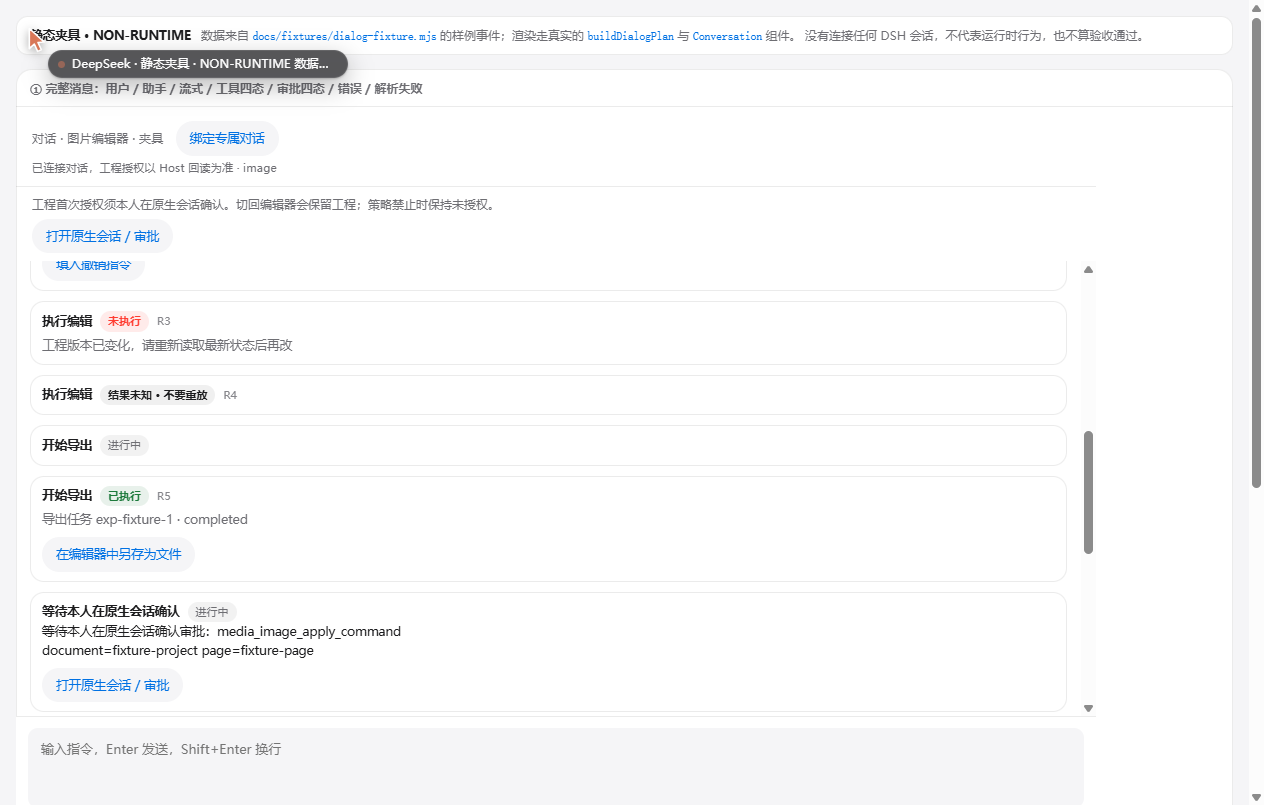
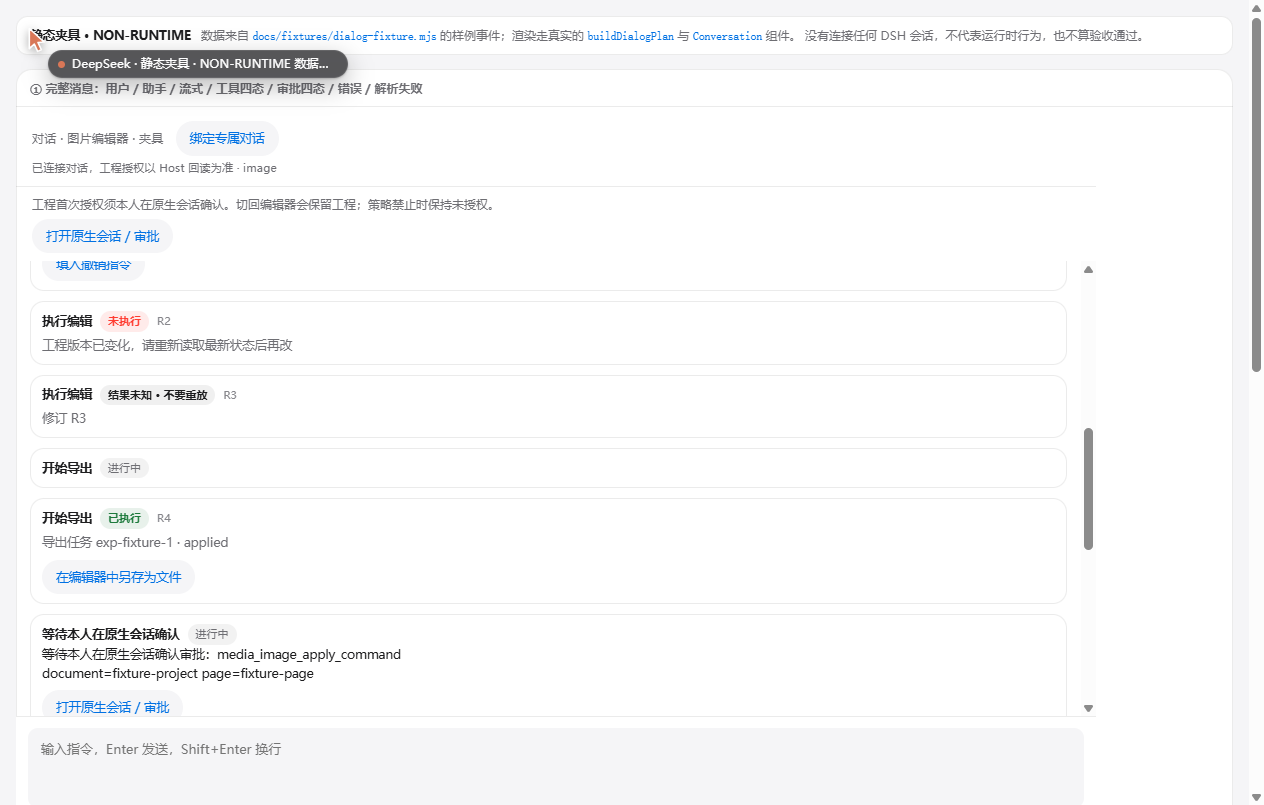
chat: 修掉"夹具能过、真机全 unknown"——按真实事件外壳抽取工具回执字段
真机 tool/result 的外壳比旧契约深一层（{call:{toolName}} + {result:{ok,value}}，或回执正文放在
content[{type:'text',text:'{...}'}] 里），旧实现只认 data.result/data.value 这一层，所以：
状态全部回落 unknown、名字取不到、commandId/exportId 也取不到 → 撤销/导出按钮不出现。

- 新增 factSources/toolFacts：把事件里所有"可能是回执"的层收进来（result/value/output/data/call/
  payload/response/content/parts/blocks/items/messages，数组展开、字符串 JSON 解析、text 继续下钻），
  再按字段取第一个可用值；不写死某条路径，少一层/多一层/纯文本 JSON 都能解析
- toolCard 改用 toolFacts；tool/result 行沿用上一条 tool/call 的工具名，不再整屏「工具调用」
- undoEvidence/resultIssue/exportEvidence 改用同一套抽取；REVISION_CONFLICT 走 ERROR_TEXT 显示"未执行"
- 夹具的事件改成真实外壳（call/result 包一层），并在夹具里保留一条 unknown 样例用于四态覆盖
- 新增回归：真实外壳的事件流必须得到 pending/applied/rejected/applied/applied/applied，
  名字解析为「执行编辑」、REVISION_CONFLICT 文案为中文、撤销与导出按钮各出现、无凭据的 applied 不给撤销
- 测试 105/105

Changed region(s): [[0.0309, 0.4969, 0.3085, 0.9006], [0.9873, 0.4658, 1.0, 0.6211]]

diff --git a/plugin/dsh-media-image/lib/client.js b/plugin/dsh-media-image/lib/client.js
@@ -185,49 +185,96 @@ window.__ModuleLoader__.load({
       })
     }
     function bindingKey(b) { return [b.editorKind, b.projectId, b.pageId, b.editorInstanceId].join(':') }
-    function undoEvidence(value, depth) {
-      if (!value || typeof value !== 'object' || depth > 6) return null
-      if (typeof value.commandId === 'string' && Number.isSafeInteger(value.revision) && typeof value.afterDigest === 'string') return { commandId: value.commandId, appliedRevision: value.revision, afterDigest: value.afterDigest }
-      for (var key of ['result', 'value', 'originalResult', 'output', 'data']) {
-        var found = undoEvidence(value[key], depth + 1)
-        if (found) return found
+    // 真实会话里 tool/result 的外壳比契约示例深一层（例如 {result:{ok,value}}、或回执正文
+    // 放在 content[{type:'text',text:'{...}'}] 里）。所以不写死某条路径，而是把所有"可能是回执"
+    // 的层收集起来再按字段取第一个可用值：少一层/多一层/纯文本 JSON 都能解析。
+    var FACT_KEYS = ['result', 'value', 'output', 'data', 'call', 'payload', 'response', 'content', 'parts', 'blocks', 'items', 'messages'];
+    function factSources(root) {
+      var out = [], queue = [root], seen = new Set();
+      while (queue.length && out.length < 64) {
+        var value = queue.shift();
+        if (value === undefined || value === null) continue;
+        if (typeof value === 'string') {
+          var trimmed = value.trim();
+          if (trimmed.charAt(0) !== '{') continue;
+          try { value = JSON.parse(trimmed) } catch (_) { continue }
+        }
+        if (Array.isArray(value)) { value.forEach(function (item) { queue.push(item) }); continue }
+        if (typeof value !== 'object' || seen.has(value)) continue;
+        seen.add(value); out.push(value);
+        for (var index = 0; index < FACT_KEYS.length; index += 1) {
+          var next = value[FACT_KEYS[index]];
+          if (next !== undefined && next !== null) queue.push(next);
+        }
+        if (typeof value.text === 'string') queue.push(value.text);
       }
-      return null
+      return out;
     }
-    function resultIssue(value, depth) {
-      if (!value || typeof value !== 'object' || depth > 6) return null
-      if (value.code === 'HISTORY_CONFLICT') return '已有后续人工或 AI 修改，不能单独撤销这一步。请回读当前历史；不要重试旧命令。'
-      for (var key of ['error', 'result', 'value', 'originalResult', 'output', 'data']) {
-        var found = resultIssue(value[key], depth + 1)
-        if (found) return found
+    function pickAny(sources, keys) {
+      for (var index = 0; index < sources.length; index += 1) {
+        for (var key = 0; key < keys.length; key += 1) {
+          var value = sources[index][keys[key]];
+          if (value !== undefined && value !== null && value !== '') return value;
+        }
       }
-      return null
+      return undefined;
+    }
+    var stringOf = value => typeof value === 'string' && value ? value : undefined;
+    /** 一次把回执里所有用得到的字段抽出来：状态、修订、错误码、撤销凭据、导出引用。 */
+    function toolFacts(data) {
+      var sources = factSources(data);
+      var error = pickAny(sources, ['error']);
+      var errorCode;
+      if (typeof error === 'string') errorCode = error;
+      else if (error && typeof error === 'object') errorCode = stringOf(error.code);
+      if (!errorCode) {
+        var bareCode = stringOf(pickAny(sources, ['code']));
+        if (bareCode && /^[A-Z][A-Z0-9_]{3,}$/.test(bareCode)) errorCode = bareCode;
+      }
+      if (!errorCode && pickAny(sources, ['ok']) === false) errorCode = 'TOOL_ERROR';
+      var revision = pickAny(sources, ['revision', 'appliedRevision']);
+      var format = stringOf(pickAny(sources, ['format', 'mimeType']));
+      return {
+        toolName: stringOf(pickAny(sources, ['toolName'])) || '',
+        status: stringOf(pickAny(sources, ['status'])) || '',
+        revision: Number.isSafeInteger(revision) ? revision : undefined,
+        errorCode: errorCode,
+        commandId: stringOf(pickAny(sources, ['commandId', 'targetCommandId'])),
+        afterDigest: stringOf(pickAny(sources, ['afterDigest'])),
+        exportId: stringOf(pickAny(sources, ['exportId'])),
+        artifactRef: stringOf(pickAny(sources, ['artifactRef'])),
+        format: format,
+      };
+    }
+    function undoEvidence(value) {
+      var facts = toolFacts(value);
+      if (!facts.commandId || !Number.isSafeInteger(facts.revision) || !facts.afterDigest) return null;
+      return { commandId: facts.commandId, appliedRevision: facts.revision, afterDigest: facts.afterDigest };
     }
     /**
      * 撤销指令：只把带凭据的指令填进输入框，由会话里的 Agent 执行。
      * 凭据缺一项就不生成文案——宁可不给按钮，也不给一个跑不通的指令。
      */
     function undoPrompt(evidence) {
-      var undo = sanitizeUndo(evidence)
-      if (!undo) return ''
+      var undo = sanitizeUndo(evidence);
+      if (!undo) return '';
       return '撤销上一步修改：使用 history.undo，params={"targetCommandId":"' + undo.commandId + '","afterDigest":"' + undo.afterDigest + '"}'
         + '（commandId=' + undo.commandId + '，appliedRevision=' + undo.appliedRevision + '）。'
-        + '先 read_state 确认这一步仍是历史栈顶；若返回 HISTORY_CONFLICT 说明已有后续修改，立即停止并说明，不要重试或绕过。'
+        + '先 read_state 确认这一步仍是历史栈顶；若返回 HISTORY_CONFLICT 说明已有后续修改，立即停止并说明，不要重试或绕过。';
+    }
+    function resultIssue(value) {
+      var facts = toolFacts(value);
+      if (facts.errorCode === 'HISTORY_CONFLICT') return '已有后续人工或 AI 修改，不能单独撤销这一步。请回读当前历史；不要重试旧命令。';
+      return null;
     }
     /**
      * 从工具回执里找导出的artifactRef：只用于在界面上提供真实「另存」入口。
      * Host 侧通常是合成引用（artifact://…），因此按钮会请编辑器自己再导一次，而不是直接打开该引用。
      */
-    function exportEvidence(value, depth) {
-      if (!value || typeof value !== 'object' || depth > 6) return null
-      if (typeof value.artifactRef === 'string' || typeof value.exportId === 'string') {
-        return { artifactRef: typeof value.artifactRef === 'string' ? value.artifactRef : null, exportId: typeof value.exportId === 'string' ? value.exportId : null, format: /jpe?g/i.test(String(value.mimeType || value.format || '')) ? 'jpeg' : 'png' }
-      }
-      for (var key of ['result', 'value', 'originalResult', 'output', 'data']) {
-        var found = exportEvidence(value[key], depth + 1)
-        if (found) return found
-      }
-      return null
+    function exportEvidence(value) {
+      var facts = toolFacts(value);
+      if (!facts.exportId && !facts.artifactRef) return null;
+      return { exportId: facts.exportId || null, artifactRef: facts.artifactRef || null, format: /jpe?g/i.test(String(facts.format || '')) ? 'jpeg' : 'png' };
     }
     function watchPanel(layout, onChange) {
       var store = layout && layout.panelInfo
@@ -315,21 +362,21 @@ window.__ModuleLoader__.load({
      * 把工具回执压成一张可读卡片：工具中文名、状态、修订号、一行说明。
      * 聊天面板只显示这些结构化字段，绝不把 canonical JSON 原样铺给用户。
      */
-    function toolCard(data, isCall) {
+    function toolCard(data, isCall, fallbackName) {
       if (!data || typeof data !== 'object') return null
-      var payload = data.arguments || data.result || data.value || data
-      var rawName = data.toolName || data.name || payload.toolName || ''
+      // 走统一的字段抽取：真实事件的外壳可能多一层（result.value / call.* / content 文本 JSON）。
+      var facts = toolFacts(data)
+      var rawName = facts.toolName || fallbackName || ''
       var name = TOOL_NAMES[rawName] || rawName || '工具调用'
-      var status = (isCall ? 'running' : null) || data.status || payload.status || ''
-      var revision = payload.revision ?? data.revision
-      var errorCode = payload.error?.code || payload.code || (Array.isArray(data.content) ? null : null)
+      var status = isCall ? 'running' : facts.status
+      var revision = facts.revision
+      var errorCode = facts.errorCode
       var line = ''
       if (!isCall) {
         if (errorCode) line = ERROR_TEXT[errorCode] || ('操作没有完成：' + errorCode)
-        else if (payload.operation) line = String(payload.operation)
-        else if (payload.exportId) line = '导出任务 ' + payload.exportId + (status ? ' · ' + status : '')
-        else if (payload.documentId) line = '工程 ' + String(payload.documentId).slice(0, 8)
-        else if (payload.layersCount !== undefined) line = payload.layersCount + ' 个图层'
+        else if (facts.exportId) line = '导出任务 ' + facts.exportId + (status ? ' · ' + status : '')
+        else if (facts.artifactRef) line = '导出文件已就绪'
+        else if (revision !== undefined) line = '修订 R' + revision
       }
       return { name: name, status: status || (isCall ? 'running' : (errorCode ? 'rejected' : 'unknown')), revision: Number.isSafeInteger(revision) ? revision : null, line: line, error: !!errorCode }
     }
@@ -571,6 +618,9 @@ window.__ModuleLoader__.load({
           }
         }
         var rows = []
+        // tool/call 行带工具名，tool/result 行在很多外壳里只有回执、没有名字：
+        // 按顺序把上一条 call 的名字带给结果行，避免整屏都叫「工具调用」。
+        var lastName = null
         Array.from(events.values()).sort(function (a,b) { return a.seq-b.seq }).forEach(function (e) {
           var d = e.data || {}, message = d.message || d
           if (e.type === 'user/message' || e.type === 'assistant/message') {
@@ -595,7 +645,9 @@ window.__ModuleLoader__.load({
             rows.push({ id: 'event-'+e.seq, role: 'error', text: String(failureText) })
           } else if (e.type === 'tool/call' || e.type === 'tool/result') {
             var isCall = e.type === 'tool/call'
-            rows.push({ id: 'event-'+e.seq, role: 'tool', card: toolCard(d, isCall), issue: isCall ? null : resultIssue(d, 0), exportRef: isCall ? null : exportEvidence(d, 0), undo: !isCall && !resultIssue(d, 0) ? undoEvidence(d, 0) : null, text: '' })
+            var card = toolCard(d, isCall, isCall ? null : lastName)
+            if (isCall && card && card.name) lastName = card.name
+            rows.push({ id: 'event-'+e.seq, role: 'tool', card: card, issue: isCall ? null : resultIssue(d), exportRef: isCall ? null : exportEvidence(d), undo: !isCall && !resultIssue(d) ? undoEvidence(d) : null, text: '' })
           }
         })
         attempts.forEach(function (a, id) {
